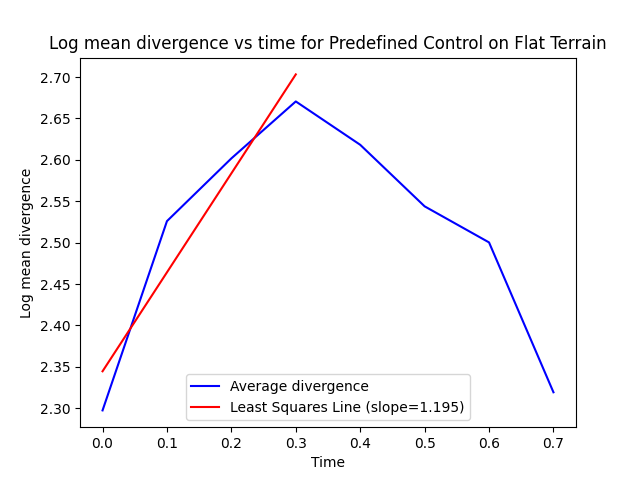
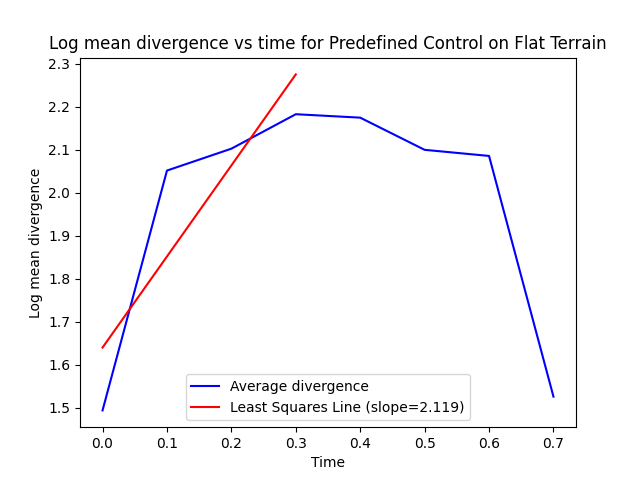
testing no yaw (bad)

diff --git a/state_space.py b/state_space.py
@@ -277,23 +277,14 @@ def plot_3d_angular_accelerations(timestamps, ang_x, ang_y, ang_z, disturbance, 
     plt.close()
 
 # Function to plot gait cycle
-def plot_gait(plot_x, plot_y, plot_z, bottom_peaks, disturbance, control_type):
-    # Create a 2D plot
-    fig = plt.figure()
-    ax = fig.add_subplot(111)
-    
-    # Plot the gait cycle using different colors for each step
-    for i in range(len(bottom_peaks) - 1):
-        color = cm.rainbow(np.linspace(0, 1, bottom_peaks[i + 1] - bottom_peaks[i]))
-        for j in range(bottom_peaks[i], bottom_peaks[i + 1] - 1, 4):
-            ax.plot(plot_x[j:j + 5], plot_y[j:j + 5], color=color[j - bottom_peaks[i]])
-    
-    ax.set_xlabel('Transverse Plane')
-    ax.set_ylabel('Frontal Plane')
-    plt.title(f'Gait Cycle for {control_type} Control on {disturbance} Terrain')
-    
-    # Save and close the plot
-    plt.savefig(fg.store_clean_data(disturbance, control_type) + "gait.png")
+def plot_gait(roll,yaw,disturbance,control_type):
+    plt.figure()
+    plt.plot(roll,yaw)
+    plt.xlabel('Roll')
+    plt.ylabel('Yaw')
+    plt.title(f"Gait for {control_type} Control on {disturbance} Terrain")
+
+    plt.savefig(fg.store_clean_data(disturbance,control_type)+"gait.png")
     plt.clf()
     plt.close()
 
@@ -325,3 +316,6 @@ def main(disturbance, control_type,delta_t):
     
     # Plot 3D angular accelerations
     plot_3d_angular_accelerations(timestamps, aa_x, aa_y, aa_z, disturbance, control_type)
+
+    #plot gait
+    plot_gait(roll,yaw,disturbance,control_type)

diff --git a/main.py b/main.py
@@ -12,7 +12,7 @@ print("Running main.py")
 def main():
     # Set the values for various parameters
     tau = 7  # Time delay for Lyapunov exponent calculation (in number of steps)
-    m = 22  # Embedding dimension for Lyapunov exponent calculation
+    m = 18  # Embedding dimension for Lyapunov exponent calculation
     delta_t = 0.1  # Time step for between data points
     min_steps = 100  # Minimum number of steps between neighbors (should force_minsteps be True)
     force_minsteps = False  # Flag to force preset minimum steps for Lyapunov exponent calculation

diff --git a/lyapunov_final.py b/lyapunov_final.py
@@ -99,7 +99,7 @@ def exponent(tau, m, min_steps, epsilon, plotting_0, plotting_final, delta_t, fo
     """
     filename = fg.filename_clean(disturbance, control_type)  # Generate the filename for clean data
     df = pd.read_csv(filename)  # Read the data from the file
-    pdata = df[['roll', 'pitch', 'yaw']]  # Select the relevant columns
+    pdata = df[['roll', 'pitch']]  # Select the relevant columns
     data = pdata.values  # Convert the data to a numpy array
 
     if not force_minsteps:
